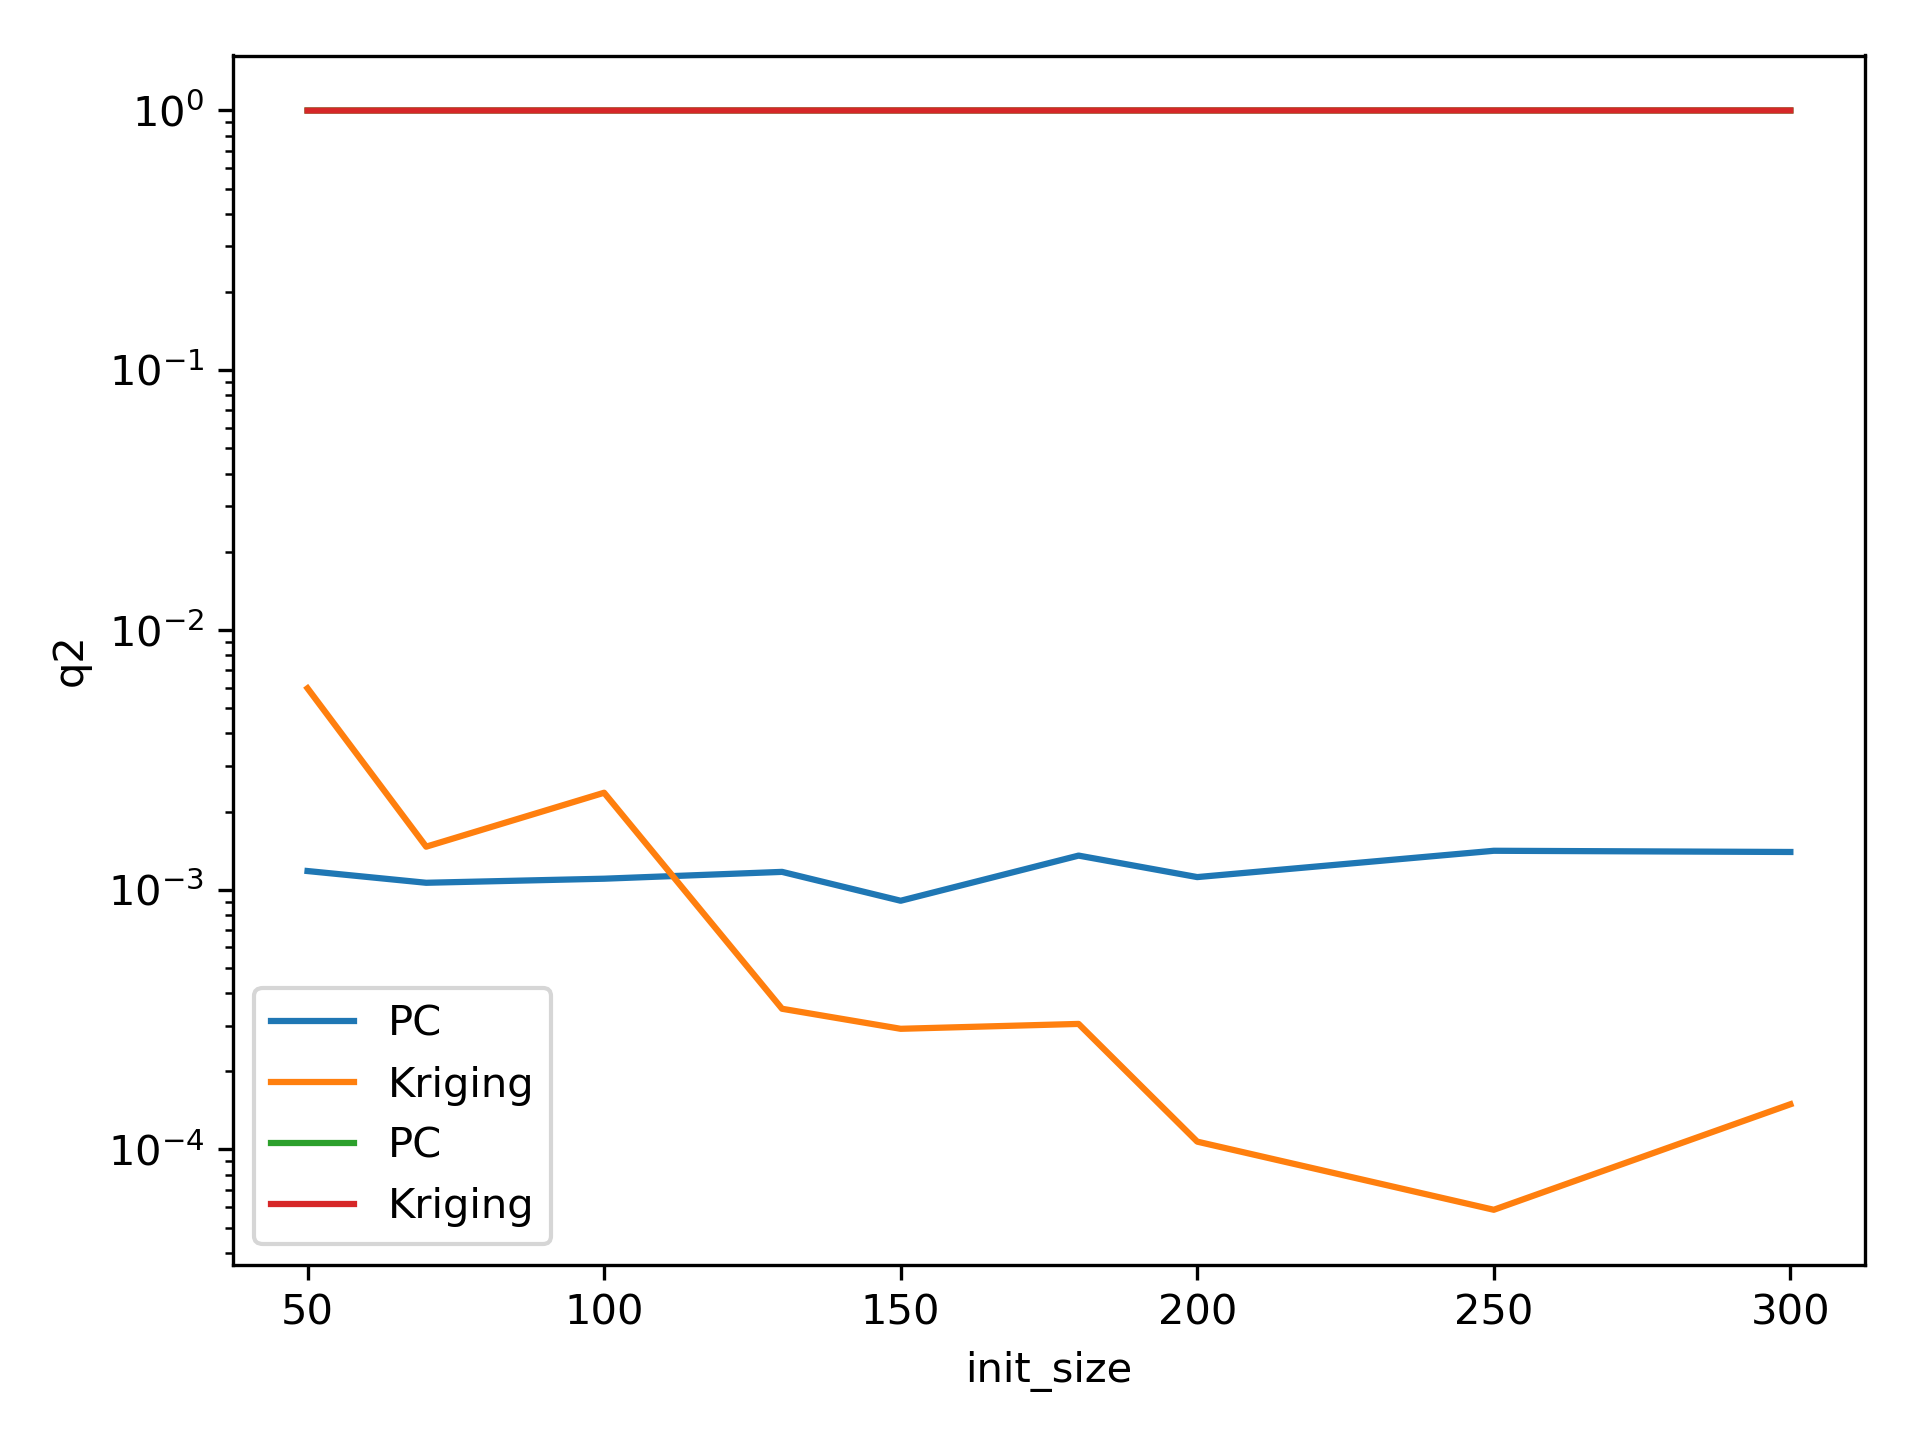
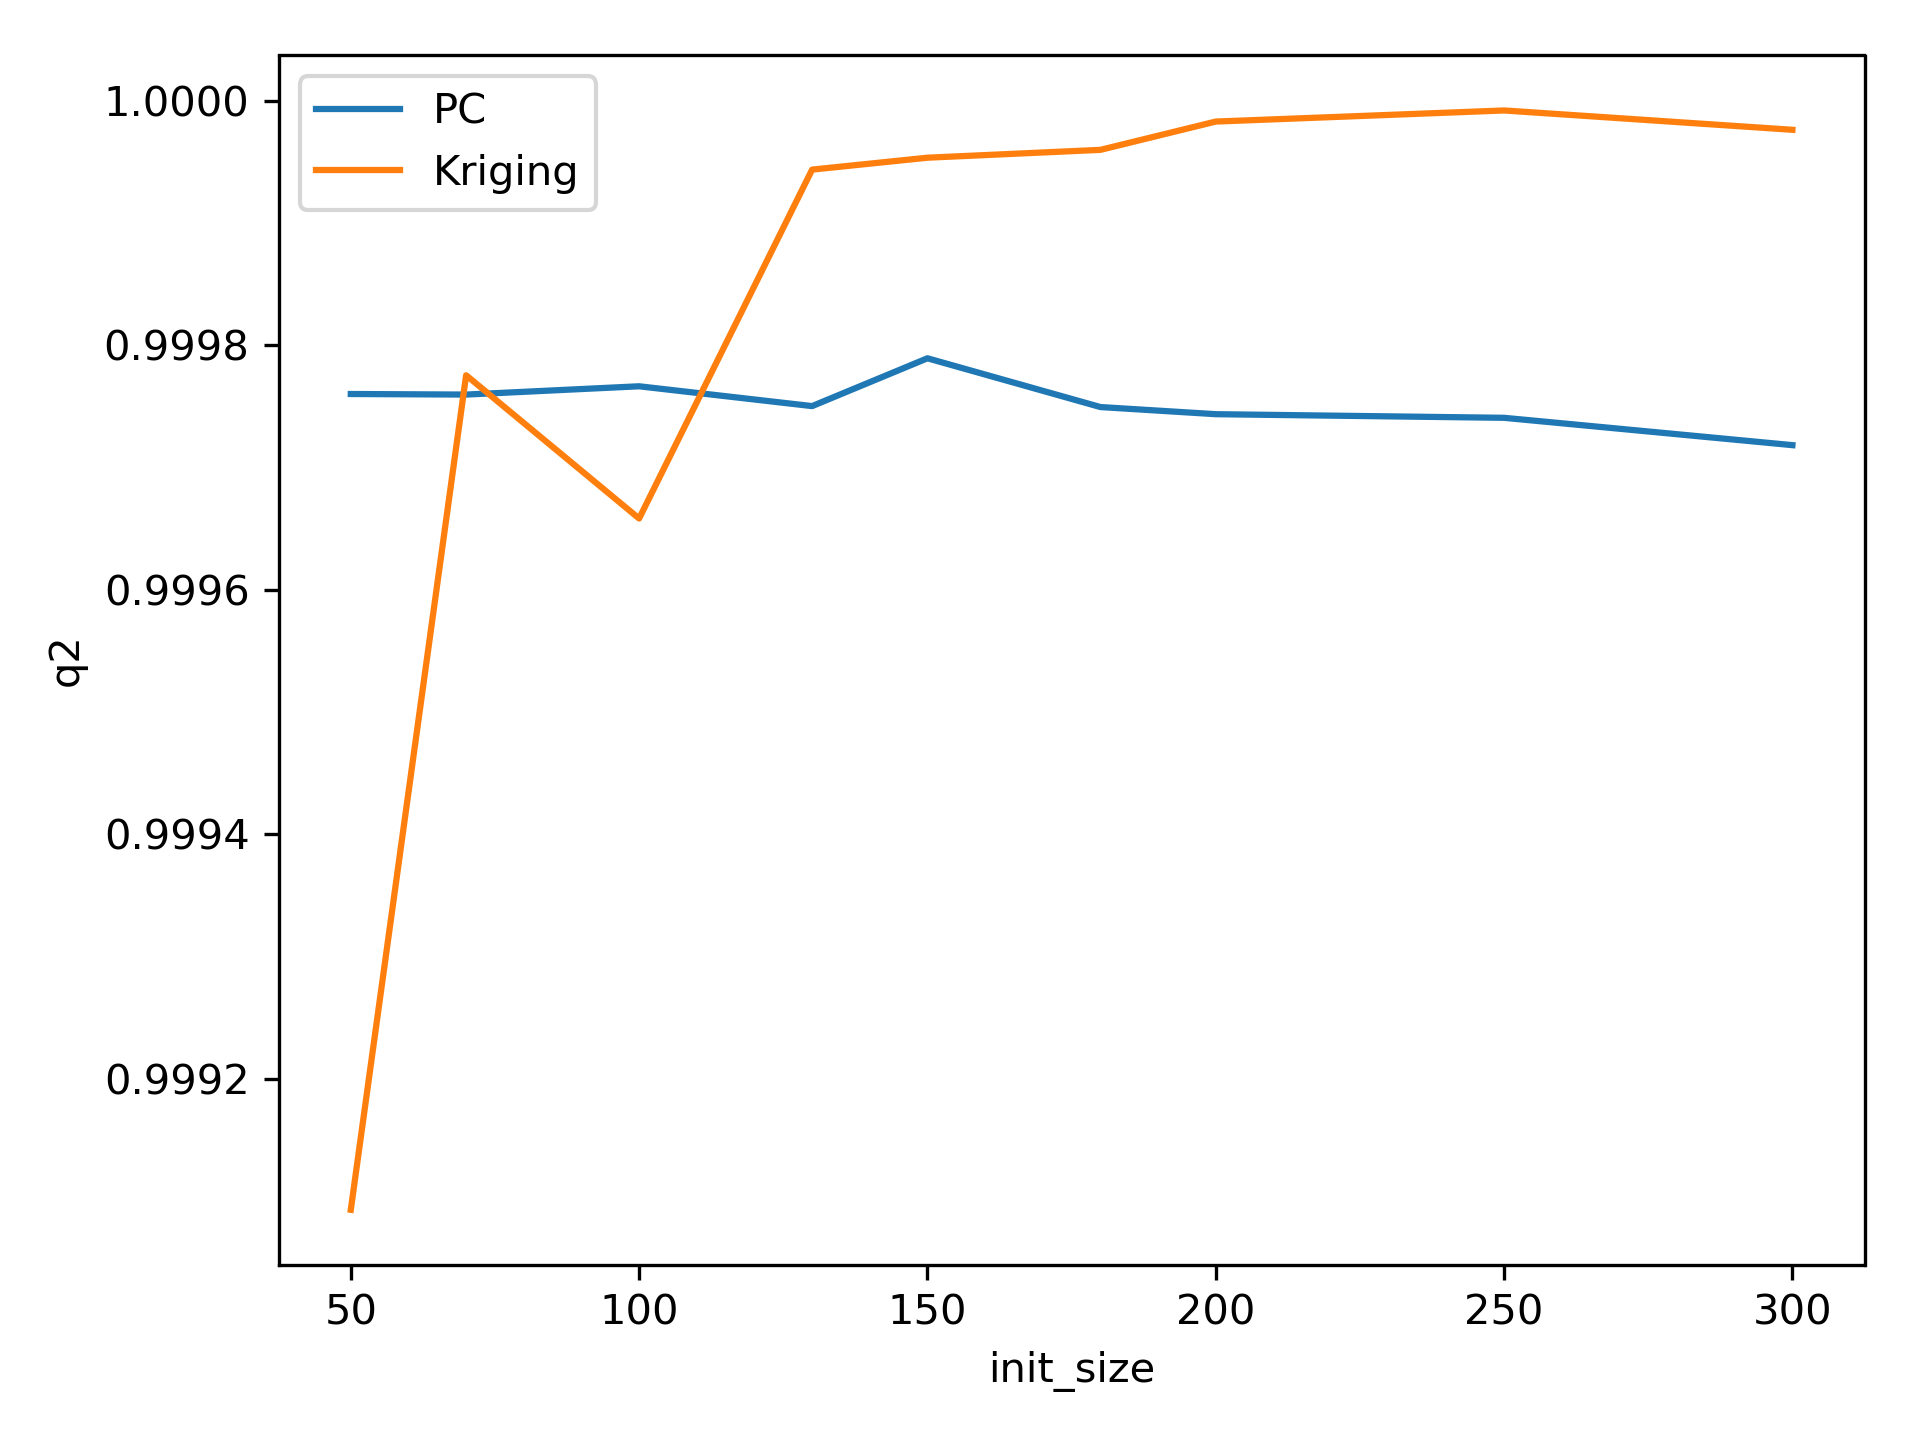
fix pb plot

diff --git a/Etude_API/influence_init_size_run_RAPPORT.py b/Etude_API/influence_init_size_run_RAPPORT.py
@@ -1,0 +1,52 @@
+from Analyse import *
+import matplotlib
+matplotlib.pyplot.switch_backend('agg')
+import matplotlib.pyplot as plt
+
+fname='init_size_RAPPORT'
+degree=10*0+5
+# list_init_size=[180,200,250,300]
+# list_init_size=[180,200]
+list_init_size=[50,70,100,130,150,180,200,250,300]
+
+list_msePC=[]
+list_q2PC=[]
+list_mseK=[]
+list_q2K=[]
+for i,init_size in enumerate(list_init_size):
+    A=Analyse(fname+'/'+str(init_size),init_size=init_size)
+    A.test()
+    
+    A.surrogateKriging()
+    mseKriging,q2Kriging=A.getSensibilityKriging()
+    print(">>> Kriging mse="+str(mseKriging)+" q2="+str(q2Kriging))
+    list_mseK.append(mseKriging)
+    list_q2K.append(q2Kriging)
+    
+    A.surrogatePC(degree=degree)
+    msePC,q2PC=A.getSensibilityPC()
+    print(">>> PC init_size="+str(init_size)+" mse="+str(msePC)+" q2="+str(q2PC))
+    list_msePC.append(msePC)
+    list_q2PC.append(q2PC)
+
+np.savetxt(fname+'/'+"init_size.dat", list_init_size)
+np.savetxt(fname+'/'+"Q2K.dat", list_q2K)
+np.savetxt(fname+'/'+"q2PC.dat", list_q2PC)
+np.savetxt(fname+'/'+"mseK.dat", list_mseK)
+np.savetxt(fname+'/'+"msePC.dat", list_msePC)
+
+# plt.semilogy(list_init_size,list_msePC,label='PC')
+# plt.semilogy(list_init_size,list_mseK,label='Kriging')
+# plt.xlabel('init_size')
+# plt.ylabel('mse')
+# plt.legend()
+# plt.tight_layout()
+# plt.savefig(fname+'/'+fname+'_mse.png',dpi=300)
+
+# plt.semilogy(list_init_size,list_q2PC,label='PC')
+# plt.semilogy(list_init_size,list_q2K,label='Kriging')
+# plt.xlabel('init_size')
+# plt.ylabel('q2')
+# plt.legend()
+# plt.tight_layout()
+# plt.savefig(fname+'/'+fname+'_q2.png',dpi=300)

diff --git a/Etude_API/influence_init_size_plot_RAPPORT.py b/Etude_API/influence_init_size_plot_RAPPORT.py
@@ -1,0 +1,30 @@
+from Analyse import *
+import matplotlib
+# matplotlib.pyplot.switch_backend('agg')
+import matplotlib.pyplot as plt
+
+fname='init_size_RAPPORT'
+
+list_init_size=np.loadtxt(fname+'/'+"init_size.dat")
+list_q2K=np.loadtxt(fname+'/'+"Q2K.dat")
+list_q2PC=np.loadtxt(fname+'/'+"q2PC.dat")
+list_mseK=np.loadtxt(fname+'/'+"mseK.dat")
+list_msePC=np.loadtxt(fname+'/'+"msePC.dat")
+
+plt.semilogy(list_init_size,list_msePC,label='PC')
+plt.semilogy(list_init_size,list_mseK,label='Kriging')
+plt.xlabel('init_size')
+plt.ylabel('mse')
+plt.legend()
+plt.tight_layout()
+plt.savefig(fname+'/'+fname+'_mse.png',dpi=300)
+plt.show()
+
+plt.plot(list_init_size,list_q2PC,label='PC')
+plt.plot(list_init_size,list_q2K,label='Kriging')
+plt.xlabel('init_size')
+plt.ylabel('q2')
+plt.legend()
+plt.tight_layout()
+plt.savefig(fname+'/'+fname+'_q2.png',dpi=300)
+plt.show()
